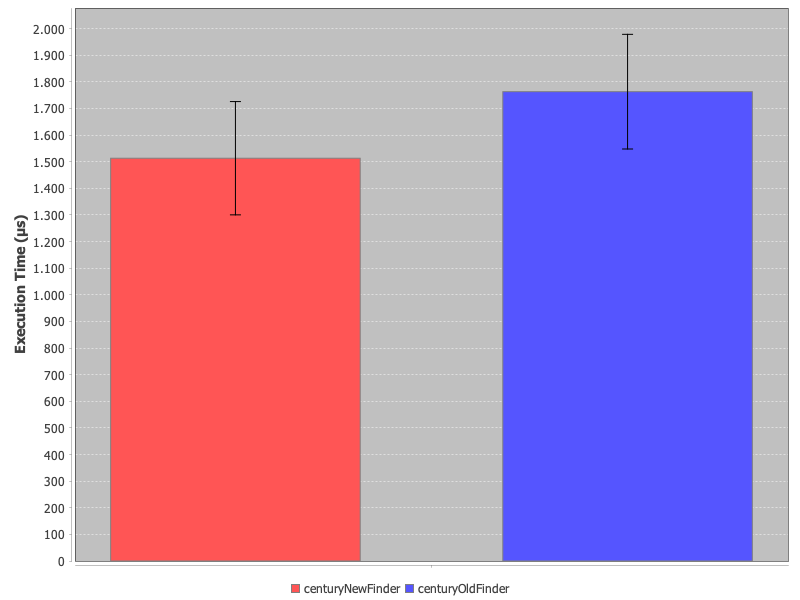
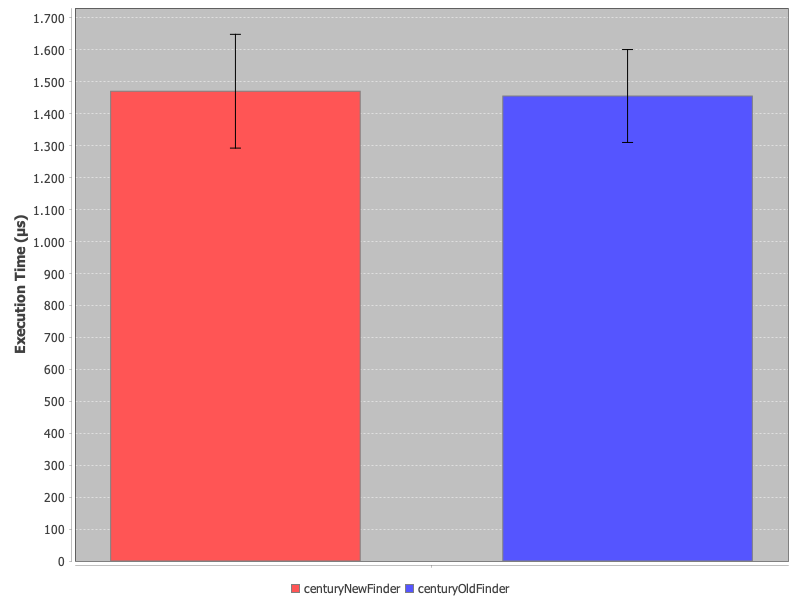
Improve performance reverting the automaton

diff --git a/replacer-backend/replacer-finder/src/main/java/es/bvalero/replacer/finder/replacement/finders/CenturyFinder.java b/replacer-backend/replacer-finder/src/main/java/es/bvalero/replacer/finder/replacement/finders/CenturyFinder.java
@@ -6,10 +6,6 @@ import static org.apache.commons.lang3.StringUtils.EMPTY;
 
 import com.roman.code.ConvertToArabic;
 import com.roman.code.exception.ConversionException;
-import dk.brics.automaton.AutomatonMatcher;
-import dk.brics.automaton.DatatypesAutomatonProvider;
-import dk.brics.automaton.RegExp;
-import dk.brics.automaton.RunAutomaton;
 import es.bvalero.replacer.common.domain.WikipediaLanguage;
 import es.bvalero.replacer.finder.FinderPage;
 import es.bvalero.replacer.finder.Replacement;
@@ -49,10 +45,6 @@ class CenturyFinder implements ReplacementFinder {
         "d. C.",
         "d.&nbsp;C.",
         "d.{{esd}}C."
-    );
-    private static final String CENTURY_WORD_REGEX = "[Ss](iglos?|\\.)";
-    private static final RunAutomaton CENTURY_WORD_AUTOMATON = new RunAutomaton(
-        new RegExp(CENTURY_WORD_REGEX).toAutomaton(new DatatypesAutomatonProvider())
     );
 
     @Override
@@ -129,18 +121,69 @@ class CenturyFinder implements ReplacementFinder {
 
     @Nullable
     private MatchResult findCenturyWord(String text, int start) {
-        // Support abbreviated century words is slower than only supporting the complete century word.
-        // The best approach is to use an automaton with both.
-        // Note that supporting hard-spaces also decreases the performance.
-        final AutomatonMatcher matcher = CENTURY_WORD_AUTOMATON.newMatcher(text, start, text.length());
-        while (matcher.find()) {
-            // We only consider the word complete
-            final int startCentury = start + matcher.start();
-            final int endCentury = start + matcher.end();
-            final String centuryWord = text.substring(startCentury, endCentury);
-            if (FinderUtils.isWordCompleteInText(startCentury, centuryWord, text)) {
-                return FinderMatchResult.of(startCentury, centuryWord);
+        // Support abbreviated century words is x4 slower than only supporting the complete century word.
+        // The best performance is obtained by finding the complete and abbreviated century words
+        // each one with a different approach. Note that supporting hard-spaces is x2 slower.
+        final MatchResult completeWord = findCenturyCompleteWord(text, start);
+        final MatchResult abbreviatedWord = findCenturyAbbreviatedWord(text, start);
+        if (completeWord != null && abbreviatedWord != null) {
+            return completeWord.start() < abbreviatedWord.start() ? completeWord : abbreviatedWord;
+        } else {
+            return completeWord == null ? abbreviatedWord : completeWord;
+        }
+    }
+
+    @Nullable
+    private MatchResult findCenturyCompleteWord(String text, int start) {
+        // Instead of making a case-insensitive search, we find the end of the word,
+        // and then we check the word is complete. It is a little faster than finding the word with both cases.
+        while (start >= 0 && start < text.length()) {
+            final int startSuffix = text.indexOf(CENTURY_SEARCH, start);
+            int endCentury = startSuffix + CENTURY_SEARCH.length();
+            if (startSuffix <= 0 || endCentury >= text.length()) { // <= 0 to be able to get the character before
+                return null;
             }
+
+            // Check first letter
+            final int startCentury = startSuffix - 1;
+            final char firstLetter = text.charAt(startCentury);
+            if (firstLetter != 'S' && firstLetter != 's') {
+                start = endCentury;
+                continue;
+            }
+
+            // Century word can be plural
+            final char pluralLetter = text.charAt(endCentury);
+            if (pluralLetter == PLURAL_LETTER) {
+                endCentury++;
+            }
+
+            // We only consider the word complete
+            final String centuryWord = text.substring(startCentury, endCentury);
+            if (!FinderUtils.isWordCompleteInText(startCentury, centuryWord, text)) {
+                start = endCentury;
+                continue;
+            }
+
+            return FinderMatchResult.of(startCentury, centuryWord);
+        }
+        return null;
+    }
+
+    @Nullable
+    private MatchResult findCenturyAbbreviatedWord(String text, int start) {
+        while (start >= 0 && start < text.length()) {
+            final MatchResult abbr = FinderUtils.indexOfAny(text, start, "S.", "s.");
+            if (abbr == null) {
+                return null;
+            }
+
+            // We only consider the word complete
+            if (FinderUtils.isWordCompleteInText(abbr, text)) {
+                return abbr;
+            }
+
+            start = abbr.end();
         }
         return null;
     }

diff --git a/replacer-backend/replacer-finder-benchmark/src/main/java/es/bvalero/replacer/finder/benchmark/century/CenturyNewFinder.java b/replacer-backend/replacer-finder-benchmark/src/main/java/es/bvalero/replacer/finder/benchmark/century/CenturyNewFinder.java
@@ -46,10 +46,6 @@ class CenturyNewFinder implements BenchmarkFinder {
         "d.&nbsp;C.",
         "d.{{esd}}C."
     );
-    private static final String CENTURY_WORD_REGEX = "[Ss](iglos?|\\.)";
-    private static final RunAutomaton CENTURY_WORD_AUTOMATON = new RunAutomaton(
-        new RegExp(CENTURY_WORD_REGEX).toAutomaton(new DatatypesAutomatonProvider())
-    );
 
     @Override
     public Stream<MatchResult> findMatchResults(FinderPage page) {
@@ -125,18 +121,69 @@ class CenturyNewFinder implements BenchmarkFinder {
 
     @Nullable
     private MatchResult findCenturyWord(String text, int start) {
-        // Support abbreviated century words is slower than only supporting the complete century word.
-        // The best approach is to use an automaton with both.
-        // Note that supporting hard-spaces also decreases the performance.
-        final AutomatonMatcher matcher = CENTURY_WORD_AUTOMATON.newMatcher(text, start, text.length());
-        while (matcher.find()) {
-            // We only consider the word complete
-            final int startCentury = start + matcher.start();
-            final int endCentury = start + matcher.end();
-            final String centuryWord = text.substring(startCentury, endCentury);
-            if (FinderUtils.isWordCompleteInText(startCentury, centuryWord, text)) {
-                return FinderMatchResult.of(startCentury, centuryWord);
+        // Support abbreviated century words is x4 slower than only supporting the complete century word.
+        // The best performance is obtained by finding the complete and abbreviated century words
+        // each one with a different approach. Note that supporting hard-spaces is x2 slower.
+        final MatchResult completeWord = findCenturyCompleteWord(text, start);
+        final MatchResult abbreviatedWord = findCenturyAbbreviatedWord(text, start);
+        if (completeWord != null && abbreviatedWord != null) {
+            return completeWord.start() < abbreviatedWord.start() ? completeWord : abbreviatedWord;
+        } else {
+            return completeWord == null ? abbreviatedWord : completeWord;
+        }
+    }
+
+    @Nullable
+    private MatchResult findCenturyCompleteWord(String text, int start) {
+        // Instead of making a case-insensitive search, we find the end of the word,
+        // and then we check the word is complete. It is a little faster than finding the word with both cases.
+        while (start >= 0 && start < text.length()) {
+            final int startSuffix = text.indexOf(CENTURY_SEARCH, start);
+            int endCentury = startSuffix + CENTURY_SEARCH.length();
+            if (startSuffix <= 0 || endCentury >= text.length()) { // <= 0 to be able to get the character before
+                return null;
             }
+
+            // Check first letter
+            final int startCentury = startSuffix - 1;
+            final char firstLetter = text.charAt(startCentury);
+            if (firstLetter != 'S' && firstLetter != 's') {
+                start = endCentury;
+                continue;
+            }
+
+            // Century word can be plural
+            final char pluralLetter = text.charAt(endCentury);
+            if (pluralLetter == PLURAL_LETTER) {
+                endCentury++;
+            }
+
+            // We only consider the word complete
+            final String centuryWord = text.substring(startCentury, endCentury);
+            if (!FinderUtils.isWordCompleteInText(startCentury, centuryWord, text)) {
+                start = endCentury;
+                continue;
+            }
+
+            return FinderMatchResult.of(startCentury, centuryWord);
+        }
+        return null;
+    }
+
+    @Nullable
+    private MatchResult findCenturyAbbreviatedWord(String text, int start) {
+        while (start >= 0 && start < text.length()) {
+            final MatchResult abbr = FinderUtils.indexOfAny(text, start, "S.", "s.");
+            if (abbr == null) {
+                return null;
+            }
+
+            // We only consider the word complete
+            if (FinderUtils.isWordCompleteInText(abbr, text)) {
+                return abbr;
+            }
+
+            start = abbr.end();
         }
         return null;
     }

diff --git a/replacer-backend/replacer-finder-benchmark/src/main/java/es/bvalero/replacer/finder/benchmark/century/CenturyOldFinder.java b/replacer-backend/replacer-finder-benchmark/src/main/java/es/bvalero/replacer/finder/benchmark/century/CenturyOldFinder.java
@@ -46,10 +46,6 @@ class CenturyOldFinder implements BenchmarkFinder {
         "d.&nbsp;C.",
         "d.{{esd}}C."
     );
-    private static final String CENTURY_WORD_REGEX = "[Ss](iglos?|\\.)";
-    private static final RunAutomaton CENTURY_WORD_AUTOMATON = new RunAutomaton(
-        new RegExp(CENTURY_WORD_REGEX).toAutomaton(new DatatypesAutomatonProvider())
-    );
 
     @Override
     public Stream<MatchResult> findMatchResults(FinderPage page) {
@@ -125,18 +121,69 @@ class CenturyOldFinder implements BenchmarkFinder {
 
     @Nullable
     private MatchResult findCenturyWord(String text, int start) {
-        // Support abbreviated century words is slower than only supporting the complete century word.
-        // The best approach is to use an automaton with both.
-        // Note that supporting hard-spaces also decreases the performance.
-        final AutomatonMatcher matcher = CENTURY_WORD_AUTOMATON.newMatcher(text, start, text.length());
-        while (matcher.find()) {
-            // We only consider the word complete
-            final int startCentury = start + matcher.start();
-            final int endCentury = start + matcher.end();
-            final String centuryWord = text.substring(startCentury, endCentury);
-            if (FinderUtils.isWordCompleteInText(startCentury, centuryWord, text)) {
-                return FinderMatchResult.of(startCentury, centuryWord);
+        // Support abbreviated century words is x4 slower than only supporting the complete century word.
+        // The best performance is obtained by finding the complete and abbreviated century words
+        // each one with a different approach. Note that supporting hard-spaces is x2 slower.
+        final MatchResult completeWord = findCenturyCompleteWord(text, start);
+        final MatchResult abbreviatedWord = findCenturyAbbreviatedWord(text, start);
+        if (completeWord != null && abbreviatedWord != null) {
+            return completeWord.start() < abbreviatedWord.start() ? completeWord : abbreviatedWord;
+        } else {
+            return completeWord == null ? abbreviatedWord : completeWord;
+        }
+    }
+
+    @Nullable
+    private MatchResult findCenturyCompleteWord(String text, int start) {
+        // Instead of making a case-insensitive search, we find the end of the word,
+        // and then we check the word is complete. It is a little faster than finding the word with both cases.
+        while (start >= 0 && start < text.length()) {
+            final int startSuffix = text.indexOf(CENTURY_SEARCH, start);
+            int endCentury = startSuffix + CENTURY_SEARCH.length();
+            if (startSuffix <= 0 || endCentury >= text.length()) { // <= 0 to be able to get the character before
+                return null;
             }
+
+            // Check first letter
+            final int startCentury = startSuffix - 1;
+            final char firstLetter = text.charAt(startCentury);
+            if (firstLetter != 'S' && firstLetter != 's') {
+                start = endCentury;
+                continue;
+            }
+
+            // Century word can be plural
+            final char pluralLetter = text.charAt(endCentury);
+            if (pluralLetter == PLURAL_LETTER) {
+                endCentury++;
+            }
+
+            // We only consider the word complete
+            final String centuryWord = text.substring(startCentury, endCentury);
+            if (!FinderUtils.isWordCompleteInText(startCentury, centuryWord, text)) {
+                start = endCentury;
+                continue;
+            }
+
+            return FinderMatchResult.of(startCentury, centuryWord);
+        }
+        return null;
+    }
+
+    @Nullable
+    private MatchResult findCenturyAbbreviatedWord(String text, int start) {
+        while (start >= 0 && start < text.length()) {
+            final MatchResult abbr = FinderUtils.indexOfAny(text, start, "S.", "s.");
+            if (abbr == null) {
+                return null;
+            }
+
+            // We only consider the word complete
+            if (FinderUtils.isWordCompleteInText(abbr, text)) {
+                return abbr;
+            }
+
+            start = abbr.end();
         }
         return null;
     }

diff --git a/replacer-backend/replacer-finder/src/main/java/es/bvalero/replacer/finder/util/FinderUtils.java b/replacer-backend/replacer-finder/src/main/java/es/bvalero/replacer/finder/util/FinderUtils.java
@@ -168,6 +168,10 @@ public class FinderUtils {
         return isWordCompleteInText(startWord, startWord + word.length(), text);
     }
 
+    public boolean isWordCompleteInText(MatchResult match, String text) {
+        return isWordCompleteInText(match.start(), match.end(), text);
+    }
+
     public boolean isWordCompleteInText(int startWord, int endWord, String text) {
         // We check the separators are not letters. The detected word might not be complete.
         // We check the separators are not digits. There are rare cases where the misspelling
